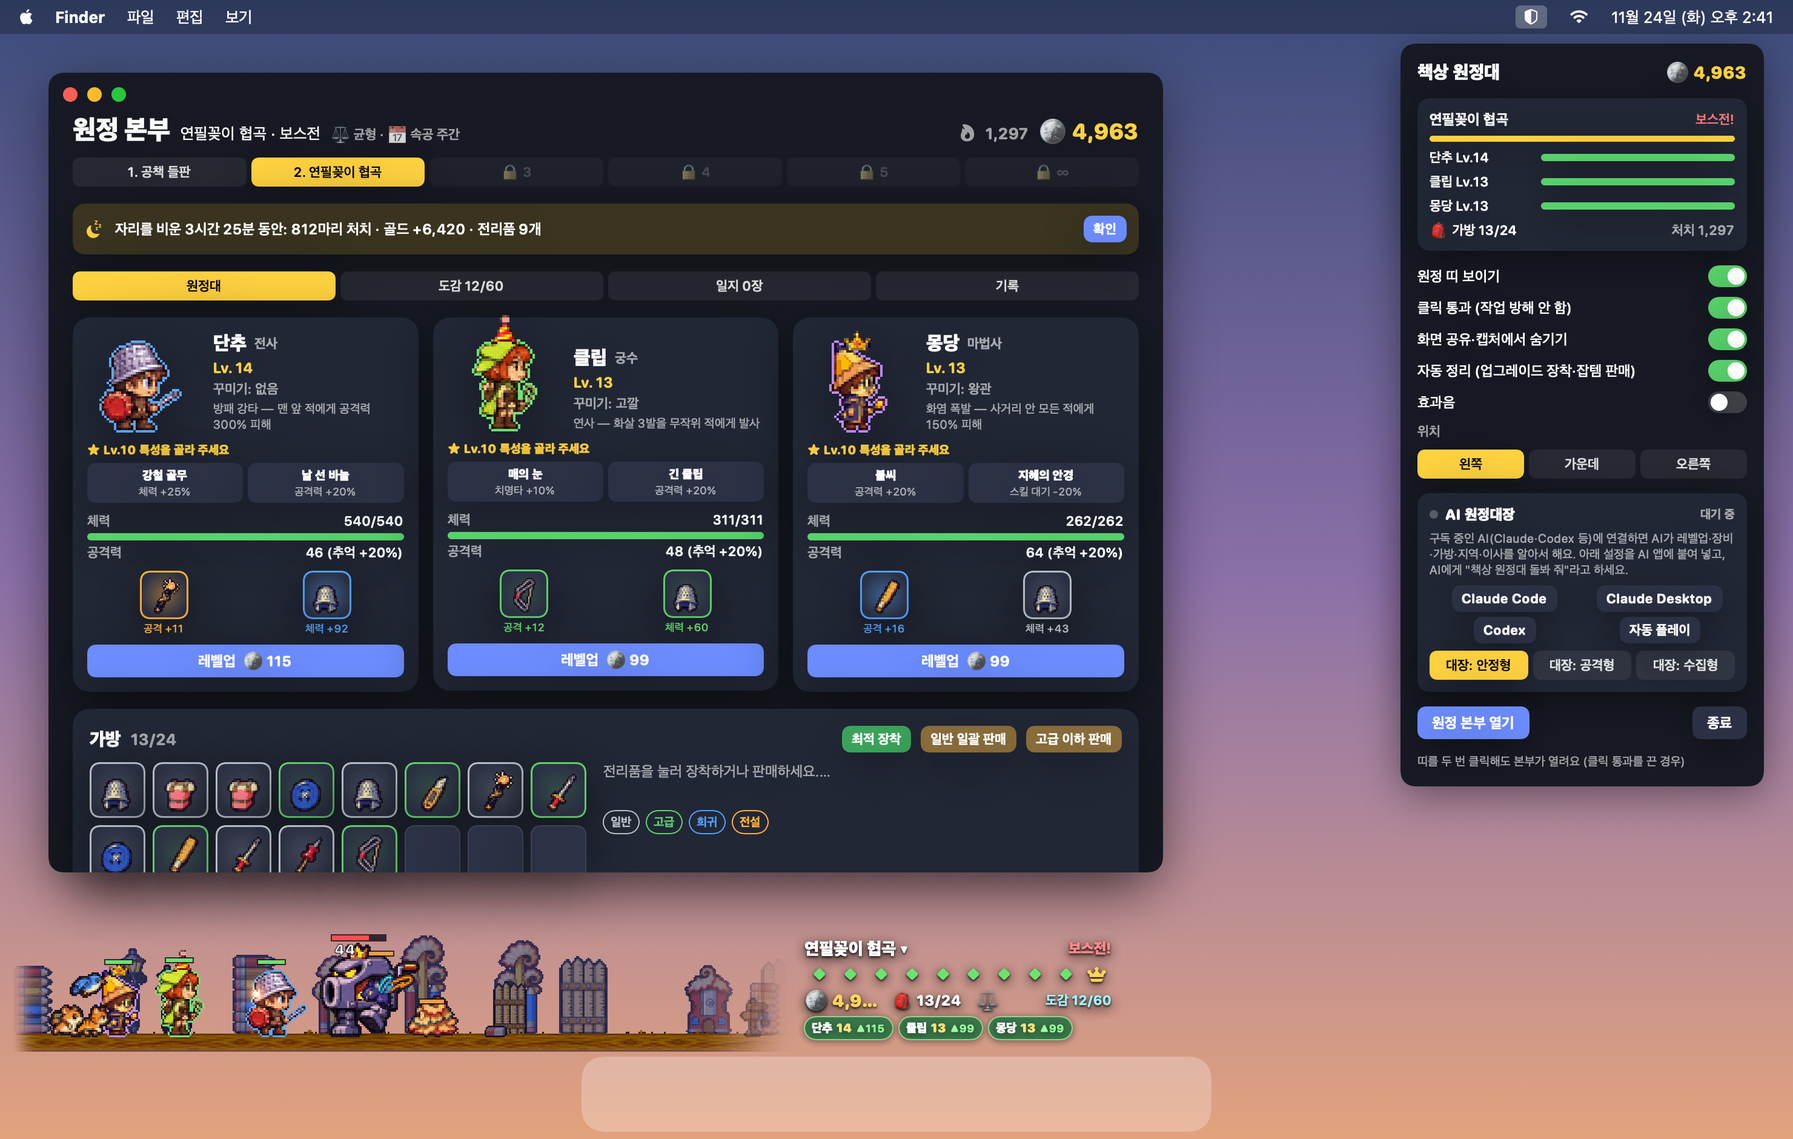
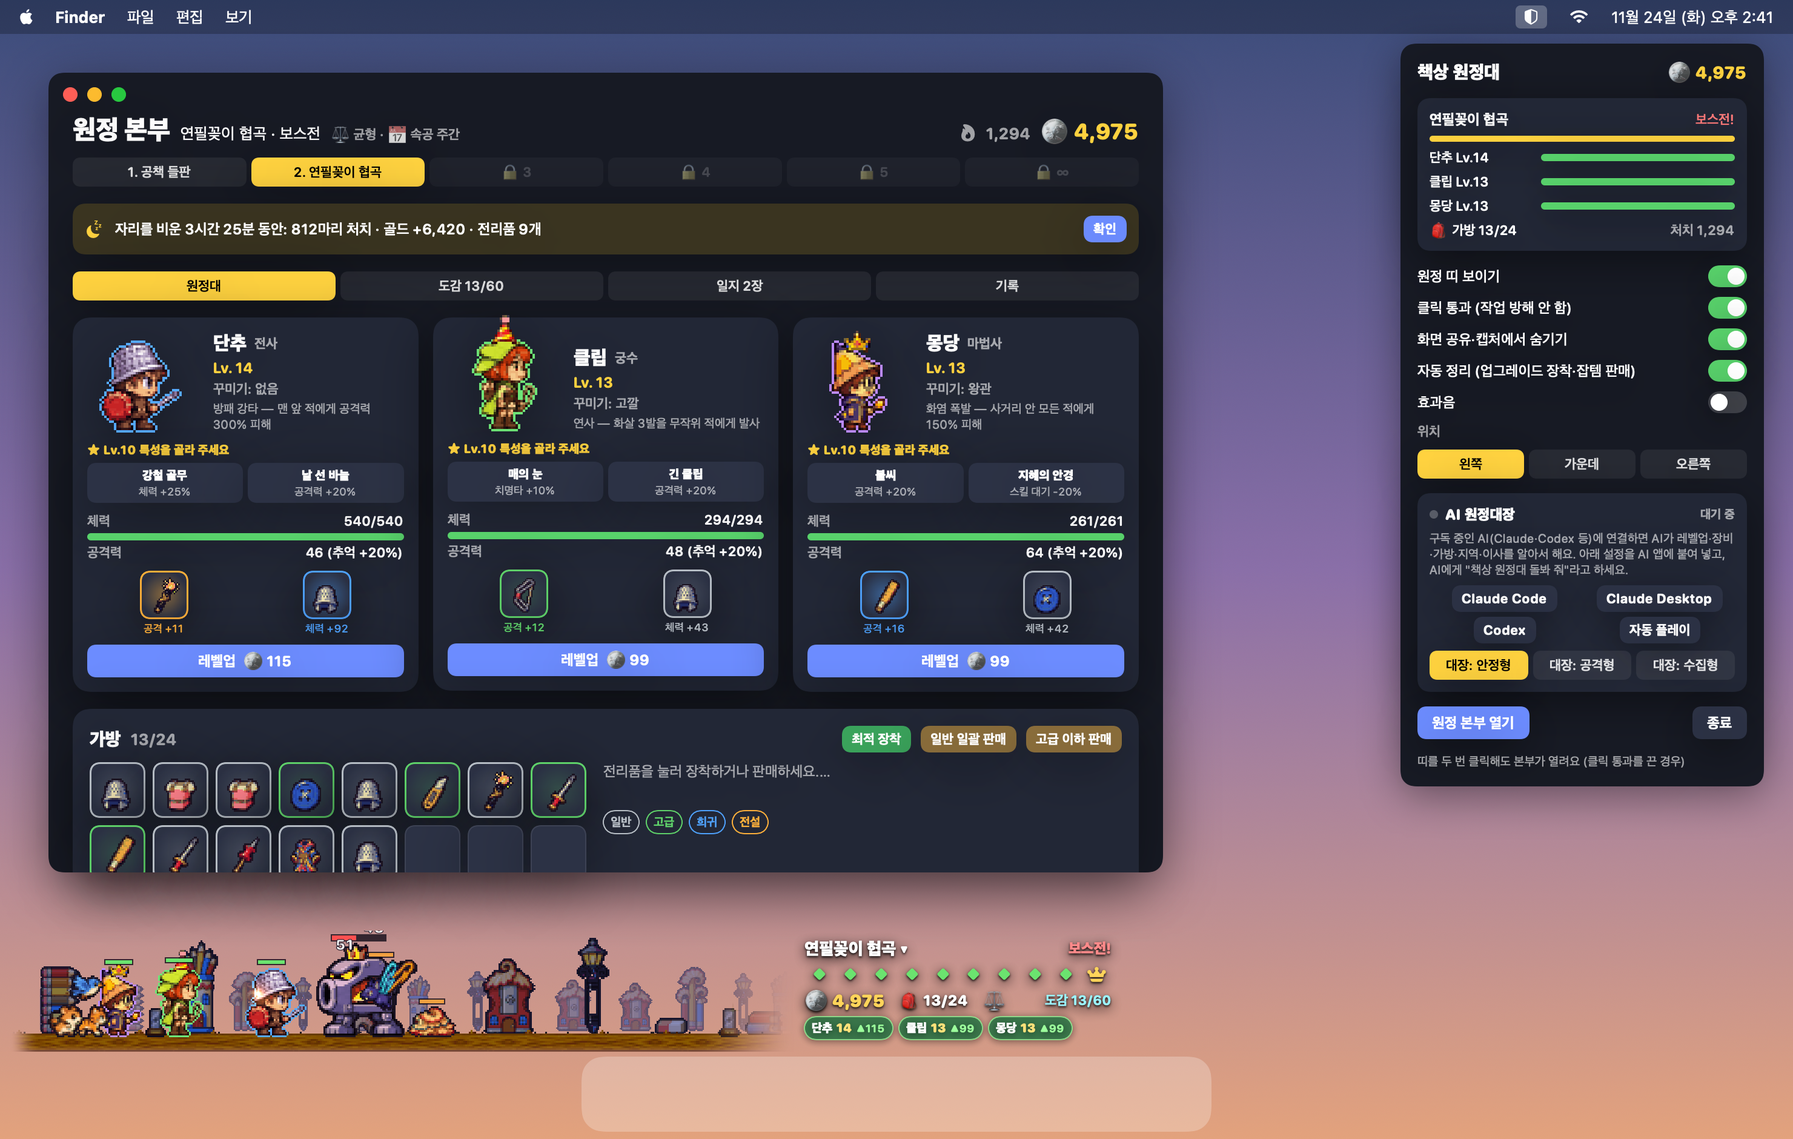
0.2.8: 배경 깊이·간격·밀도 정리, 공책 지면 재생성, 꾸미기 상점(StoreKit 2)
- 먼 랜드마크를 작고 옅게, 지평선 쪽으로 올림(원근 반전 해소), 중간 줄은 크게
- 물체 폭만큼 띄워 겹침 방지, 밀도 상향
- 공책 들판 지면 줄을 '나무 책상 위 공책'으로 재생성
- 피격 흰 섬광 0.7로 완화
- 꾸미기 상점: 테마 팩·후원 팩(비소모성), 구매·복원·테마 선택, StoreKit 테스트 설정과 SKTestSession 테스트
- 앱스토어 남은 단계 문서화

diff --git a/Sources/Strip/StripScene.swift b/Sources/Strip/StripScene.swift
@@ -279,22 +279,22 @@ final class StripScene: SKScene {
         }
         // No painted backdrop: the desktop shows above the floor; depth comes from objects alone.
         // Far: big landmark objects on the back edge, slow and slightly faded.
-        lanes.append(PropLane(layer: farLayer, speed: Depth.far, spacing: 48...110, y: groundTop + 1) { [weak self] in
+        lanes.append(PropLane(layer: farLayer, speed: Depth.far, spacing: 4...36, y: groundTop + 4) { [weak self] in
             guard let (sheet, f) = landmark() else { return nil }
             let n = SKSpriteNode(texture: sheet.frames[f])
             n.anchorPoint = sheet.anchor
-            n.setScale(PixelArt.scale * CGFloat.random(in: 0.75...0.95))
-            self?.scenery(n, tint: (NSColor(hex: 0xBFC6E6), 0.3))
+            n.setScale(PixelArt.scale * CGFloat.random(in: 0.5...0.62))
+            self?.scenery(n, tint: (NSColor(hex: 0x9AA4CC), 0.45), alpha: 0.7)
             return n
         })
         // Mid: small hazy props on the horizon.
-        lanes.append(PropLane(layer: midLayer, speed: Depth.mid, spacing: 110...240, y: groundTop) { [weak self] in
+        lanes.append(PropLane(layer: midLayer, speed: Depth.mid, spacing: 18...110, y: groundTop + 1) { [weak self] in
             let pick: (SpriteSheet, Int)? = Bool.random() ? landmark() : props.flatMap { p in usable.randomElement().map { (p, $0) } }
             guard let (sheet, f) = pick else { return nil }
             let n = SKSpriteNode(texture: sheet.frames[f])
             n.anchorPoint = sheet.anchor
-            n.setScale(PixelArt.scale * CGFloat.random(in: 0.6...0.75))
-            self?.scenery(n, tint: (NSColor(hex: 0xBFC6E6), 0.12))
+            n.setScale(PixelArt.scale * CGFloat.random(in: 0.78...0.95))
+            self?.scenery(n, tint: (NSColor(hex: 0xBFC6E6), 0.08))
             return n
         })
         // Near: props and trophies on the back edge of the floor, behind the party.
@@ -673,7 +673,7 @@ final class StripScene: SKScene {
             FX.label(textLayer, "도감 NEW! \(store.lastDexName)", at: at, color: NSColor(hex: 0x9CF4FF), size: 13, rise: 6, life: 1.8)
             FX.burst(fxLayer, at: at, color: NSColor(hex: 0x9CF4FF), count: 16, speed: 60, life: 0.8, size: 0.1)
         }
-        if store.progress.theme != seenTheme { applyTheme(store.progress.theme) }
+        if store.effectiveTheme != seenTheme { applyTheme(store.effectiveTheme) }
         if store.dropEvents != seenDrops {
             seenDrops = store.dropEvents
             if let item = store.lastDrop { lootPop(item) }
@@ -850,6 +850,8 @@ final class HeroActor {
     private var legendGlow: SKEmitterNode?
 
     func apply(hero: HeroProgress) {
+        let gold = CosmeticShop.shared.owns(.supporter)
+        nameLabel.fontColor = gold ? NSColor(hex: 0xFFD45A) : .white
         let rarity = hero.weapon?.rarity ?? .common
         let legendary = rarity >= .rare
         if legendary, let g = legendGlow, g.particleColor != NSColor(hex: rarity.colorHex) {
@@ -1128,7 +1130,7 @@ final class MonsterActor {
         bar.node.position = CGPoint(x: 0, y: hover + bob + CGFloat(heightPx) * PixelArt.scale + 4)
         bar.set(hpFraction)
         bar.node.isHidden = dying
-        FlashShader.set(sprite, amount: realClock < flashUntil ? 1 : 0, color: flashColor)
+        FlashShader.set(sprite, amount: realClock < flashUntil ? 0.7 : 0, color: flashColor)
     }
 }
 
@@ -1244,11 +1246,13 @@ final class PropLane {
     func update(scroll: CGFloat) {
         let pos = scroll * speed
         while nextX < pos + SceneryShader.fadeRight + 120 {
+            var width: CGFloat = 0
             if let n = make() {
                 layer.addChild(n)
-                items.append((n, nextX))
+                width = n.frame.width
+                items.append((n, nextX + width * n.anchorPoint.x))
             }
-            nextX += CGFloat.random(in: spacing)
+            nextX += width + CGFloat.random(in: spacing)
         }
         items.removeAll { item in
             let x = item.x - pos

diff --git a/Sources/App/CosmeticShop.swift b/Sources/App/CosmeticShop.swift
@@ -1,0 +1,97 @@
+import Foundation
+import Observation
+import StoreKit
+
+/// Cosmetic-only in-app purchases (StoreKit 2). Nothing here affects combat or progression —
+/// that promise is the product's selling point (see docs/APPSTORE.md).
+/// In the Developer ID build products don't load (StoreKit needs an App Store build or a .storekit test
+/// configuration), so the shop shows an explanation instead of buttons.
+@MainActor
+@Observable
+final class CosmeticShop {
+    static let shared = CosmeticShop()
+
+    enum ID: String, CaseIterable {
+        case themes = "club.lemongrove.deskexpedition.themes"
+        case supporter = "club.lemongrove.deskexpedition.supporter"
+
+        var title: String { L10n.t(self == .themes ? "책상 테마 팩" : "후원 팩") }
+        var blurb: String {
+            L10n.t(self == .themes ? "밤샘·카페·새벽 책상 테마를 언제든 골라 쓰기" : "영웅 이름이 금빛으로 · 본부에 후원 배지 · 개발 응원")
+        }
+    }
+
+    private(set) var products: [ID: Product] = [:]
+    private(set) var owned: Set<ID> = []
+    private(set) var loading = false
+    private(set) var message: String?
+    @ObservationIgnored private var updates: Task<Void, Never>?
+    @ObservationIgnored private var purchasedThisSession: Set<ID> = []
+
+    private init() {
+        // Cache of entitlements so cosmetics show instantly at launch (re-verified by refresh()).
+        owned = Set((UserDefaults.standard.stringArray(forKey: "shop.owned") ?? []).compactMap(ID.init))
+    }
+
+    var available: Bool { !products.isEmpty }
+    func owns(_ id: ID) -> Bool { owned.contains(id) }
+
+    func start() {
+        guard updates == nil else { return }
+        updates = Task { [weak self] in
+            for await result in Transaction.updates {
+                if case .verified(let t) = result {
+                    await t.finish()
+                    await self?.refreshEntitlements()
+                }
+            }
+        }
+        Task { await refresh() }
+    }
+
+    func refresh() async {
+        loading = true
+        defer { loading = false }
+        if let list = try? await Product.products(for: ID.allCases.map(\.rawValue)) {
+            products = Dictionary(uniqueKeysWithValues: list.compactMap { p in ID(rawValue: p.id).map { ($0, p) } })
+        }
+        await refreshEntitlements()
+    }
+
+    func refreshEntitlements() async {
+        var now: Set<ID> = []
+        for await result in Transaction.currentEntitlements {
+            if case .verified(let t) = result, t.revocationDate == nil, let id = ID(rawValue: t.productID) { now.insert(id) }
+        }
+        now.formUnion(purchasedThisSession)
+        // Keep cached ownership when StoreKit is unavailable (e.g. offline) rather than revoking it.
+        if available || !now.isEmpty { owned = now }
+        UserDefaults.standard.set(owned.map(\.rawValue), forKey: "shop.owned")
+    }
+
+    func buy(_ id: ID) async {
+        guard let product = products[id] else { return }
+        do {
+            switch try await product.purchase() {
+            case .success(let result):
+                if case .verified(let t) = result {
+                    await t.finish()
+                    purchasedThisSession.insert(id)   // currentEntitlements can lag right after a purchase
+                    await refreshEntitlements()
+                    message = L10n.t("고마워요! 꾸미기가 열렸어요")
+                }
+            case .pending: message = L10n.t("승인 대기 중이에요")
+            case .userCancelled: break
+            @unknown default: break
+            }
+        } catch {
+            message = error.localizedDescription
+        }
+    }
+
+    func restore() async {
+        try? await AppStore.sync()
+        await refreshEntitlements()
+        message = L10n.t(owned.isEmpty ? "복원할 구매가 없어요" : "구매를 복원했어요")
+    }
+}

diff --git a/Sources/UI/CollectionViews.swift b/Sources/UI/CollectionViews.swift
@@ -232,6 +232,8 @@ struct RecordsView: View {
             .padding(12)
             .background(RoundedRectangle(cornerRadius: 14).fill(Theme.panel))
 
+            ShopSection()
+
             VStack(alignment: .leading, spacing: 6) {
                 Text("새 책상으로 이사").font(.system(size: 14, weight: .heavy, design: .rounded))
                 Text("레벨·장비·골드·지역이 처음으로 돌아가는 대신 추억 조각을 얻어요. 조각 하나당 공격력과 골드가 영구히 +5%. 도감·일지·트로피·이름·꾸미기는 그대로 가져가요.")
@@ -269,5 +271,57 @@ struct RecordsView: View {
         .frame(maxWidth: .infinity, alignment: .leading)
         .padding(10)
         .background(RoundedRectangle(cornerRadius: 12).fill(Theme.panel))
+    }
+}
+
+/// 꾸미기 상점 (StoreKit 2, cosmetic only).
+private struct ShopSection: View {
+    @Environment(GameStore.self) private var store
+    private var shop: CosmeticShop { CosmeticShop.shared }
+
+    var body: some View {
+        VStack(alignment: .leading, spacing: 6) {
+            HStack {
+                Text("꾸미기 상점").font(.system(size: 14, weight: .heavy, design: .rounded))
+                if shop.owns(.supporter) { Text("🎖 후원자").font(.system(size: 11, weight: .bold, design: .rounded)).foregroundStyle(Theme.gold) }
+                Spacer()
+                Text("게임 성능에 영향 없는 꾸미기만 팔아요").font(.system(size: 10, design: .rounded)).foregroundStyle(Theme.dim)
+            }
+            HStack(spacing: 8) {
+                ForEach(CosmeticShop.ID.allCases, id: \.self) { id in
+                    HStack {
+                        VStack(alignment: .leading, spacing: 2) {
+                            Text(id.title).font(.system(size: 12, weight: .heavy, design: .rounded))
+                            Text(id.blurb).font(.system(size: 10, design: .rounded)).foregroundStyle(Theme.dim).lineLimit(2)
+                        }
+                        Spacer()
+                        if shop.owns(id) {
+                            Text("보유 중").font(.system(size: 11, weight: .bold, design: .rounded)).foregroundStyle(Color(hex: 0x9CFF9C))
+                        } else if let p = shop.products[id] {
+                            Button(p.displayPrice) { Task { await shop.buy(id) } }
+                                .buttonStyle(GameButtonStyle(color: Color(hex: 0x3BA55C), compact: true))
+                        } else {
+                            Text("—").foregroundStyle(Theme.dim)
+                        }
+                    }
+                    .padding(8)
+                    .frame(maxWidth: .infinity)
+                    .background(RoundedRectangle(cornerRadius: 10).fill(Theme.panelHi))
+                }
+            }
+            if shop.owns(.themes) {
+                SegmentRow(options: [-1] + Array(DeskTheme.names.indices), selected: store.settings.themeOverride,
+                           label: { $0 < 0 ? L10n.t("이사 순서대로") : L10n.t(DeskTheme.names[$0]) },
+                           onSelect: { store.settings.themeOverride = $0 })
+            }
+            HStack {
+                Text(shop.available ? (shop.message ?? "") : "앱스토어 버전에서 구매할 수 있어요. 지금 받은 버전(직접 배포)은 모든 게임 내용이 그대로 열려 있어요.")
+                    .font(.system(size: 10, design: .rounded)).foregroundStyle(Theme.dim)
+                Spacer()
+                if shop.available { Button("구매 복원") { Task { await shop.restore() } }.buttonStyle(GameButtonStyle(color: Theme.panelHi, compact: true)) }
+            }
+        }
+        .padding(12)
+        .background(RoundedRectangle(cornerRadius: 14).fill(Theme.panel))
     }
 }

diff --git a/Sources/Game/GameStore.swift b/Sources/Game/GameStore.swift
@@ -21,6 +21,8 @@ struct StripSettings: Equatable {
     var autoSell = true
     var sound = false
     var aiStyle = 0
+    /// Desk theme chosen in the shop's theme pack (-1 = follow moves).
+    var themeOverride = -1
 }
 
 @MainActor
@@ -311,6 +313,12 @@ final class GameStore {
         progress.heroes.contains { ($0.item(in: item.slot)?.score ?? 0) < item.score }
     }
 
+    /// Desk theme actually shown: the theme pack lets the player pick any; otherwise it follows moves.
+    var effectiveTheme: Int {
+        if CosmeticShop.shared.owns(.themes), DeskTheme.names.indices.contains(settings.themeOverride) { return settings.themeOverride }
+        return progress.theme
+    }
+
     // MARK: 0.2.7 systems
 
     /// Equip upgrades and sell spare low-rarity gear (both optional, on by default).
@@ -458,6 +466,7 @@ final class GameStore {
             s[keyPath: path] = d.bool(forKey: key)
         }
         s.aiStyle = d.integer(forKey: "ai.style")
+        s.themeOverride = d.object(forKey: "shop.theme") == nil ? -1 : d.integer(forKey: "shop.theme")
         return s
     }
 
@@ -474,5 +483,6 @@ final class GameStore {
         d.set(settings.autoSell, forKey: "tidy.autoSell")
         d.set(settings.sound, forKey: "fx.sound")
         d.set(settings.aiStyle, forKey: "ai.style")
+        d.set(settings.themeOverride, forKey: "shop.theme")
     }
 }

diff --git a/Tests/ShopTests.swift b/Tests/ShopTests.swift
@@ -1,0 +1,27 @@
+import StoreKitTest
+import XCTest
+@testable import DeskExpedition
+
+final class ShopTests: XCTestCase {
+    @MainActor
+    func testCosmeticPurchaseUnlocksThemeOverride() async throws {
+        let session = try SKTestSession(configurationFileNamed: "Products")
+        session.disableDialogs = true
+        session.clearTransactions()
+        let shop = CosmeticShop.shared
+        await shop.refresh()
+        XCTAssertTrue(shop.available, "products load from the StoreKit test configuration")
+        XCTAssertEqual(shop.products[.themes]?.type, .nonConsumable)
+        XCTAssertFalse(shop.owns(.themes))
+
+        let store = GameStore(progress: Progress(), persist: false)
+        store.settings.themeOverride = 2
+        XCTAssertEqual(store.effectiveTheme, 0, "override ignored until the pack is owned")
+
+        await shop.buy(.themes)
+        XCTAssertTrue(shop.owns(.themes), "message: \(shop.message ?? "nil")")
+        XCTAssertEqual(store.effectiveTheme, 2)
+        XCTAssertFalse(shop.owns(.supporter))
+        session.clearTransactions()
+    }
+}

diff --git a/Sources/App/Snapshot.swift b/Sources/App/Snapshot.swift
@@ -32,6 +32,11 @@ enum Snapshot {
         p.totalKills = 1_284
         p.bossKills = 1
 
+        if let r = ProcessInfo.processInfo.environment["DE_REGION"].flatMap(Int.init), Region.all.indices.contains(r) {
+            p.unlockedRegion = max(p.unlockedRegion, r)
+            p.regionIndex = r
+            p.wave = 3
+        }
         let store = GameStore(progress: p, persist: false)
         store.lastOffline = OfflineReport(seconds: 3 * 3600 + 25 * 60, kills: 812, gold: 6_420, items: 9, autoSold: 0, bosses: 0)
         store.banner = nil

diff --git a/Sources/App/DeskExpeditionApp.swift b/Sources/App/DeskExpeditionApp.swift
@@ -56,6 +56,7 @@ final class AppDelegate: NSObject, NSApplicationDelegate {
 
         let store = GameStore.shared
         store.start()
+        CosmeticShop.shared.start()
         mcp = MCPServer(store: store)
         mcp?.start()
         strip = StripWindowController(store: store, onOpenHQ: { [weak self] in self?.openHQ() })

diff --git a/scripts/art/specs.py b/scripts/art/specs.py
@@ -160,7 +160,8 @@ GROUND_LINE = (
 )
 
 STRIP_MATERIALS = {
-    "notebook": "white lined notebook paper edge with blue lines, tiny pink eraser crumbs and pencil dots on top",
+    "notebook": "the edge of a cream notebook page lying on a warm brown wooden desk (paper on top third, wood below), "
+                "tiny pink eraser crumbs and pencil shavings on top",
     "pencilcup": "warm wooden desk plank with wood grain, tiny curly pencil shavings and graphite dust on top",
     "mug": "dark wooden desk with spilled coffee drips, tiny sugar grains and coffee drops on top",
     "planter": "brown soil with small grass tufts, tiny fallen leaves and pebbles on top",

diff --git a/docs/APPSTORE.md b/docs/APPSTORE.md
@@ -3,8 +3,12 @@
 ## 수익 모델 (결정)
 - **유료 본편 1회 구매**: $4.99 / ₩6,600. 광고, 뽑기, 장터, 편의 과금(가방·창고 슬롯 판매)은 하지 않는다. 경쟁작 리뷰 불만 1순위가 이것이다(`docs/COMPETITORS-2026-11.md`).
 - **추가 상품은 외형만**: 책상 테마 팩(풍경 색조와 소품 세트), 모자·펫 꾸미기 팩. 게임 성능에 영향을 주지 않는다.
-  - 구현 메모: 꾸미기와 테마는 이미 데이터로 분리돼 있다(`Accessory`, `DeskTheme`, `Companion`). 판매는 StoreKit 2 비소모성 상품으로 붙이면 된다.
-  - App Store Connect에 상품을 등록하는 일은 사람이 해야 한다.
+  - **구현 완료(0.2.8)**: `Sources/App/CosmeticShop.swift`(StoreKit 2)에 비소모성 상품 2개를 넣었다.
+    - `club.lemongrove.deskexpedition.themes`: 책상 테마 팩 $2.99. 테마를 언제든 고를 수 있다.
+    - `club.lemongrove.deskexpedition.supporter`: 후원 팩 $1.99. 금빛 이름과 후원 배지.
+  - 본부 → 기록 탭에 "꾸미기 상점"이 있다. 구매, 복원, 테마 선택을 지원한다.
+  - 테스트: `Config/Products.storekit` 테스트 설정과 `Tests/ShopTests.swift`(SKTestSession으로 구매하면 테마가 해금되는지 확인). 통과했다.
+  - 직접 배포(Developer ID) 빌드는 StoreKit 상품이 열리지 않는다. 그래서 상점에 "앱스토어 버전에서 구매할 수 있어요"라고 안내하고, 게임 내용은 모두 열려 있다.
 
 ## 배포 경로
 1. **지금**: Developer ID 서명·공증 dmg를 GitHub Releases에서 배포한다(`scripts/release.sh`).
@@ -26,3 +30,10 @@
 > 맥 네이티브: 클릭 통과, 전체화면·화면 공유 자동 숨김, 저전력(행군 중 30fps, 가려지면 정지), 잠자기·부재 시간 정산.
 > AI 원정대장: Claude·Codex 같은 AI를 연결하면 대신 돌봐 줘요.
 > 1회 구매, 광고·뽑기·장터 없음.
+
+## 사람이 해야 하는 남은 단계 (Apple 계정 작업)
+이 맥에는 App Store Connect API 키(`~/.appstoreconnect/private_keys`)가 있다. 하지만 아래 작업은 사용자 계정에 기록을 만드는 일이라 확인을 받은 뒤에만 한다.
+1. App Store Connect에서 새 앱을 만든다(macOS, 번들 ID `club.lemongrove.deskexpedition`, SKU). 앱 레코드 생성은 API로 할 수 없어서 웹에서 해야 한다.
+2. 위 두 상품 ID로 비소모성 인앱 구매를 등록한다(API로 가능).
+3. "Apple Distribution" 인증서, Mac App Store 프로비저닝 프로필, 내보내기 설정을 준비한다(API로 가능).
+4. 스크린샷, 설명(위 초안), 개인정보 "수집 안 함", 연령 등급을 입력하고 심사를 제출한다.

diff --git a/STATUS.md b/STATUS.md
@@ -40,7 +40,15 @@
   - **AI 원정대장**: 성향 3종, 대장 일지(저장됨), 본부의 "대장이 한 일" 요약, 새 MCP 도구 3개.
   - **편의**: 효과음(합성음, 기본 끔), 첫 실행 안내 3장, 영어 UI(String Catalog와 게임 용어 런타임 번역).
   - **문서**: 출시·수익 준비(`docs/APPSTORE.md`).
-- **테스트** 19개(기존 6개 + 도감·변종, 희귀 손님 스폰, 심층 층 기록, 이사, 예전 세이브 호환)(전투 진행, 보스 처치·지역 해금, 오프라인 상한·속도, 가방 가득 참, 등급 스케일, 장착·일괄 판매): 모두 통과.
+- **0.2.8**: 배경 깊이를 바로잡았다.
+  - 먼 랜드마크는 작고 옅고 살짝 위에, 중간 줄은 크게 배치했다.
+  - 물체 폭만큼 간격을 띄워 겹치지 않게 했다.
+  - 밀도를 높였다.
+  - 공책 들판 지면을 "나무 책상 위 공책"으로 다시 그렸다.
+  - 몬스터가 맞을 때 흰 섬광을 약하게(0.7) 했다.
+  - 꾸미기 상점(StoreKit 2, 테마 팩·후원 팩)을 추가했다.
+  - 공증 빌드가 멈추는 원인을 진단했다: macOS 앱 데이터 보호 동의 창이 응답을 기다리고 있다.
+- **테스트** 20개(기존 6개 + 도감·변종, 희귀 손님 스폰, 심층 층 기록, 이사, 예전 세이브 호환)(전투 진행, 보스 처치·지역 해금, 오프라인 상한·속도, 가방 가득 참, 등급 스케일, 장착·일괄 판매): 모두 통과.
 - **docs/screenshot.png**: 앱의 `--snapshot` 모드로 실제 SwiftUI 화면(띠·메뉴·본부)을 정해진 게임 상태로 렌더링한 합성 이미지.
 
 ## 실행 방법
